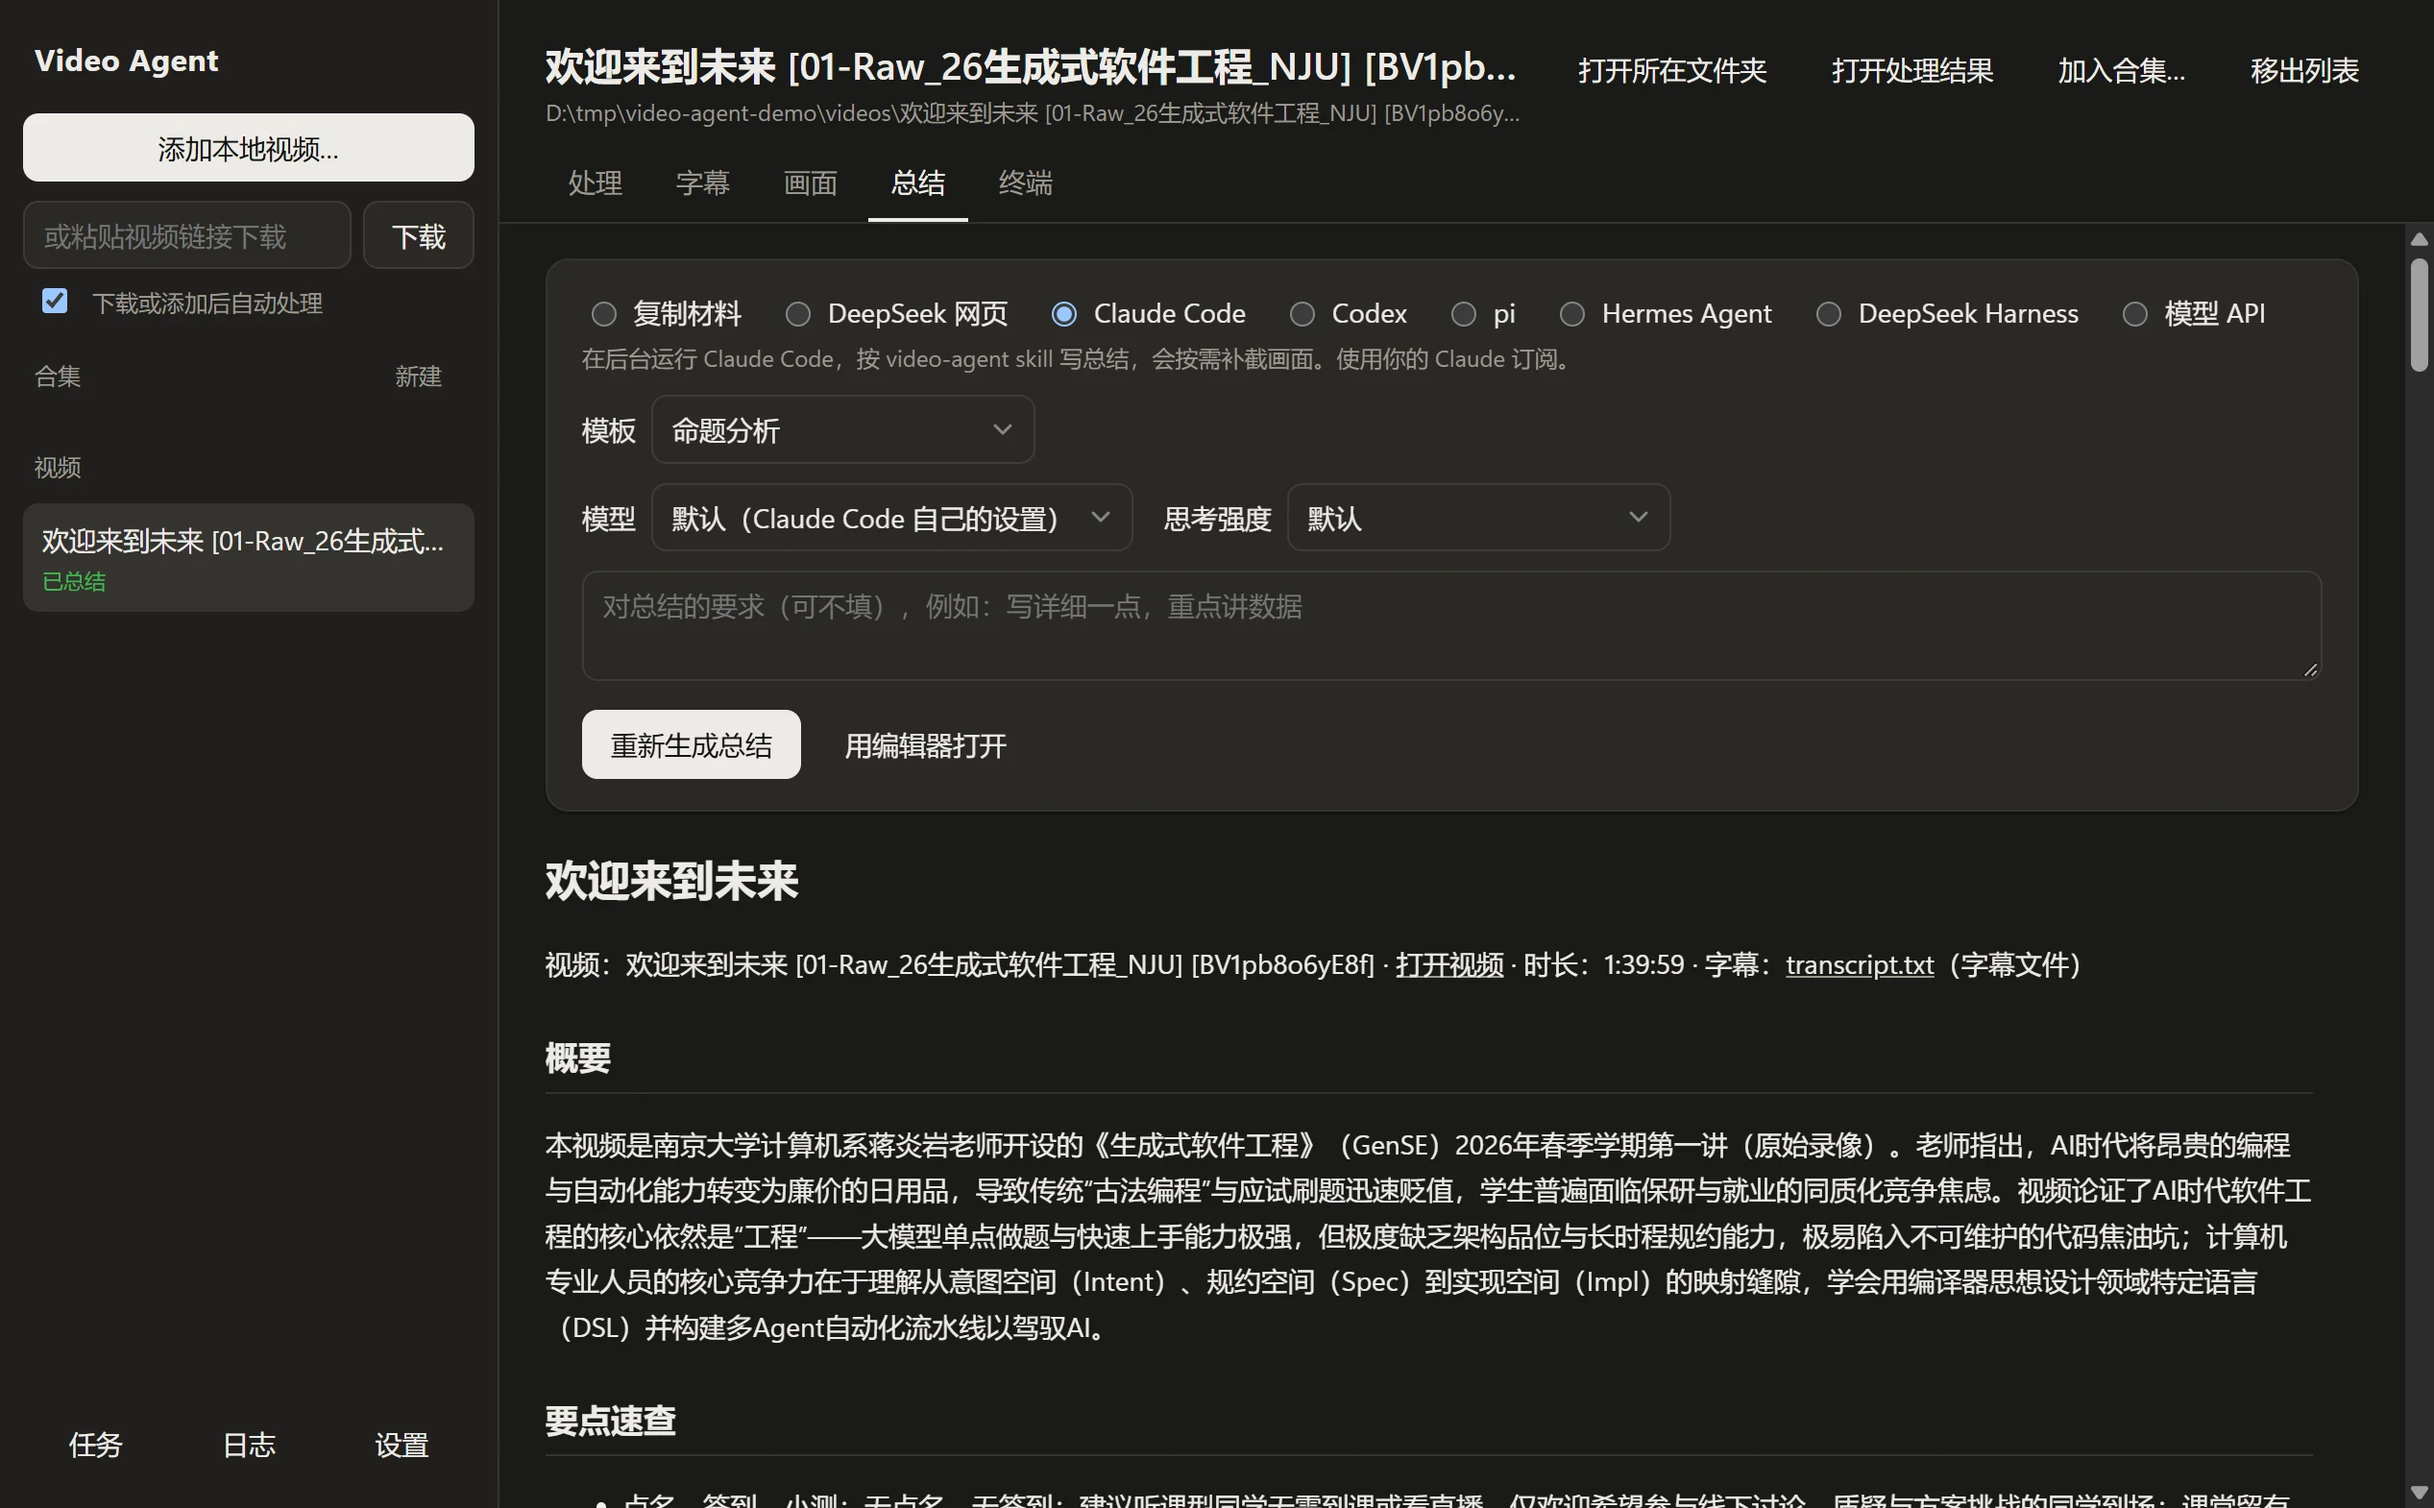
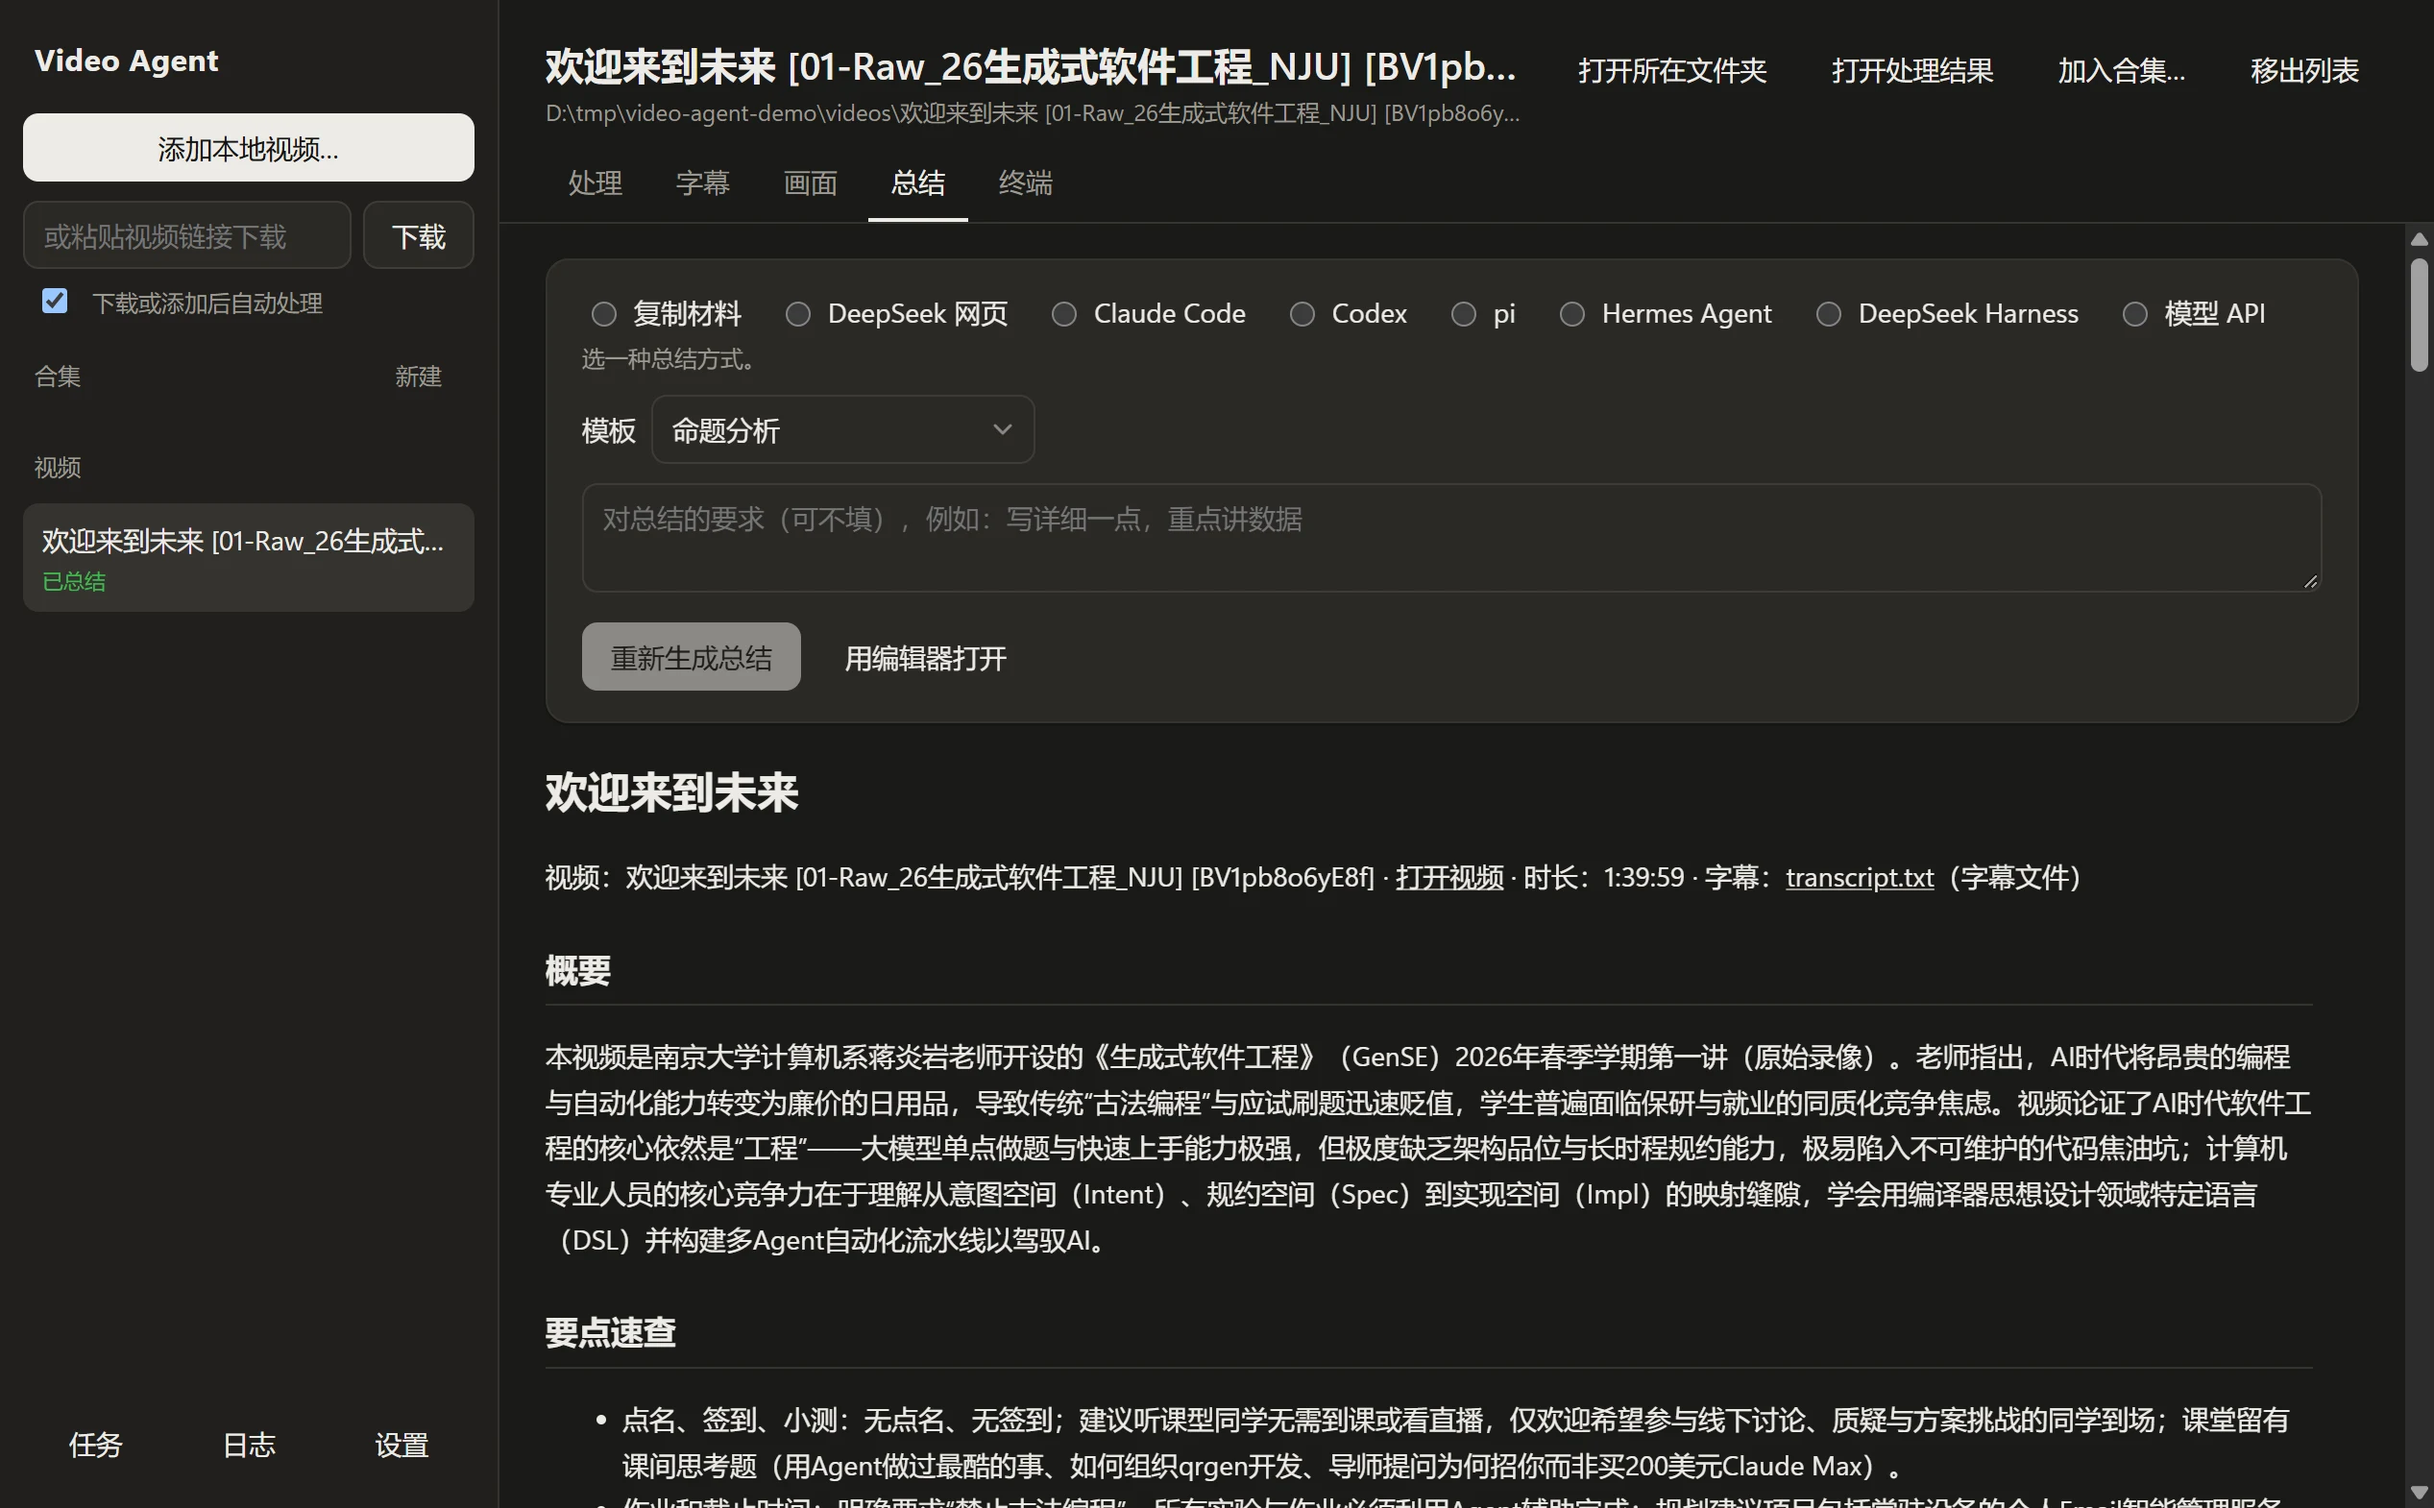
Choose no summary route for the user

diff --git a/gui/src/renderer/summary.js b/gui/src/renderer/summary.js
@@ -24,6 +24,7 @@ export const routeName = (route) =>
 export const routeMissing = (route) =>
   (route === 'claude' && !state.env.claude) || (route === 'codex' && !state.env.codex) || otherRoute(route)?.found === false;
 const routeNote = (route) =>
+  (!route && '选一种总结方式。') ||
   ROUTE_NOTES[route] ||
   (otherRoute(route)
     ? `在后台运行 ${otherRoute(route)?.name}，按同一份 skill 写总结。它以你的身份运行命令，不限于工作区。`
@@ -53,8 +54,8 @@ async function saveRouteChoice(changes) {
 
 async function renderModel() {
   const route = state.route;
-  $('route-model-label').hidden = !modelTakes(route);
-  if (!modelTakes(route)) return;
+  $('route-model-label').hidden = !route || !modelTakes(route);
+  if (!route || !modelTakes(route)) return;
   const select = $('route-model');
   const fill = (list, note) => {
     if (route !== state.route) return; // another route was chosen meanwhile
@@ -91,18 +92,18 @@ $('route-model').onchange = async () => {
   const custom = $('route-model').value === CUSTOM_MODEL;
   $('route-model-custom').hidden = !custom;
   if (custom) return $('route-model-custom').focus();
-  await saveRouteChoice({ routeModels: { ...(state.settings.routeModels || {}), [state.route]: $('route-model').value } });
+  await saveRouteChoice({ routeModels: { ...(state.settings.routeModels || {}), [String(state.route)]: $('route-model').value } });
   renderModel(); // the thinking levels may follow the model
 };
 $('route-model-custom').onchange = () =>
-  saveRouteChoice({ routeModels: { ...(state.settings.routeModels || {}), [state.route]: $('route-model-custom').value.trim() } });
+  saveRouteChoice({ routeModels: { ...(state.settings.routeModels || {}), [String(state.route)]: $('route-model-custom').value.trim() } });
 $('route-effort').onchange = () =>
-  saveRouteChoice({ routeEfforts: { ...(state.settings.routeEfforts || {}), [state.route]: $('route-effort').value } });
+  saveRouteChoice({ routeEfforts: { ...(state.settings.routeEfforts || {}), [String(state.route)]: $('route-effort').value } });
 
 function renderRoutes() {
   for (const label of $$('#routes .route-agent')) label.remove();
   $('routes').querySelector('input[value=api]').parentElement.before(...otherRouteLabels());
-  if (!document.querySelector(`input[name=route][value="${state.route}"]`)) state.route = 'api';
+  if (state.route && !document.querySelector(`input[name=route][value="${state.route}"]`)) state.route = null;
   for (const input of $$('input[name=route]')) {
     const missing = routeMissing(input.value);
     input.disabled = missing;
@@ -122,7 +123,7 @@ export async function renderSummary(video) {
   renderRoutes();
   const article = $('summary');
   const info = video.info;
-  $('run-summary').disabled = !info?.processed || state.route === 'other';
+  $('run-summary').disabled = !info?.processed || !state.route || state.route === 'other';
   $('run-summary').textContent = state.route === 'copy' ? '复制材料' : info?.summary ? '重新生成总结' : '生成总结';
   $('open-summary').hidden = !info?.summary;
   const copying = state.route === 'copy' && !!info?.processed;
@@ -232,18 +233,19 @@ $('open-summary').onclick = () => {
 $('run-summary').onclick = async () => {
   const video = pageVideo();
   const info = video.info;
-  if (!info) return; // not read yet
+  const route = state.route;
+  if (!info || !route) return; // not read yet, or no route chosen
   const request = $('summary-request').value.trim();
-  if (state.route === 'copy') return copyMaterial();
-  const name = routeName(state.route);
+  if (route === 'copy') return copyMaterial();
+  const name = routeName(route);
   // A summary there already stays current; the new one is kept as a version to compare and choose.
   if (info.summary) summaryState('已经有总结：新写的会另存为一个版本，原来的不动。');
   addTask({
     kind: 'summary',
     title: `总结（${name}）：${baseName(video.path)}`,
-    route: state.route,
-    agent: ['api', 'deepseek'].includes(state.route) ? undefined : state.route,
-    maxFiles: state.route === 'deepseek' ? state.settings.webFiles || 50 : undefined,
+    route,
+    agent: ['api', 'deepseek'].includes(route) ? undefined : route,
+    maxFiles: route === 'deepseek' ? state.settings.webFiles || 50 : undefined,
     video: video.path,
     folder: info.folder,
     request,

diff --git a/gui/test/e2e.test.js b/gui/test/e2e.test.js
@@ -268,6 +268,8 @@ devTest('frames tab takes an extra frame', async () => {
 test('summary through the model API, with one frame tool round', async () => {
   await page.click('.tabs button[data-tab=summary]');
   assert.equal(await page.getAttribute('#routes label:first-child input', 'value'), 'copy', '复制材料 comes first');
+  assert.equal(await page.locator('input[name=route]:checked').count(), 0, 'no route is chosen for the user');
+  assert.equal(await page.isDisabled('#run-summary'), true);
   await page.check('input[name=route][value=api]');
   // A model chosen on the page for this route, instead of the one in the settings.
   // A model from the provider's list and a thinking level, instead of the model in the settings.

diff --git a/gui/src/renderer/app.js b/gui/src/renderer/app.js
@@ -22,7 +22,6 @@ async function init() {
   }
   renderUpdate(await window.va.updateState());
   window.va.accounts().then((list) => ((state.accounts = list), renderAccounts()));
-  state.route = state.env.claude ? 'claude' : state.env.codex ? 'codex' : 'api';
   state.videos = state.settings.videos.map((path) => ({ path, info: null }));
   state.tasks = await window.va.tasks();
   $('download-then-process').checked = state.settings.processAfterDownload !== false; // on unless turned off

diff --git a/gui/src/renderer/state.js b/gui/src/renderer/state.js
@@ -27,7 +27,8 @@ export const state = {
   /** @type {string | null} the path of the video shown */
   current: null,
   tab: 'process',
-  route: 'claude',
+  /** @type {string | null} the summary route; none until the user picks one (user decision, 2026-10-30) */
+  route: null,
   /** @type {any[]} */
   tasks: [], // the queue in the main process (tasks.js), without output
   /** @type {{ id: string, buffer: string, loading: boolean } | null} */

diff --git a/docs/decisions/gui.md b/docs/decisions/gui.md
@@ -17,3 +17,4 @@ Implemented in `gui/` (2026-10-27). The first release ships the CLI, skill and G
 - **Back to the start page** (user report, 2026-10-29: once a video or collection was open there was no way back to the start page). Clicking the open video or collection in the sidebar again closes it; while one of a collection's videos is open, its collection's row opens the collection's page as before.
 - **The terminal starts when asked for** (user request, 2026-10-29): opening the 终端 tab no longer starts a shell; 启动终端 does, and becomes 新建终端 while one runs.
 
+- **No summary route chosen in advance** (user decision, 2026-10-30, asked why the second route was chosen on entering the summary page): the page used to choose Claude Code when found, else Codex, else the model API, and kept whatever was clicked while the app ran, so it looked as if the second route were the default. Now no route is chosen until the user clicks one; 生成总结 stays disabled and the note says to choose one. A route clicked stays chosen while the app runs.
